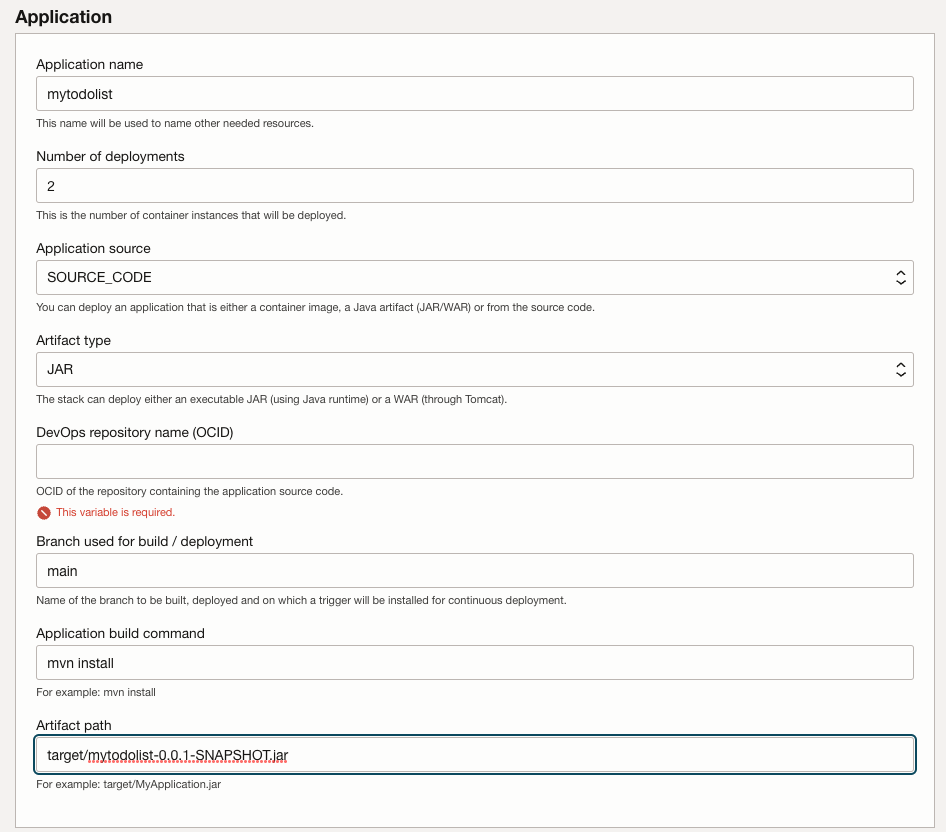
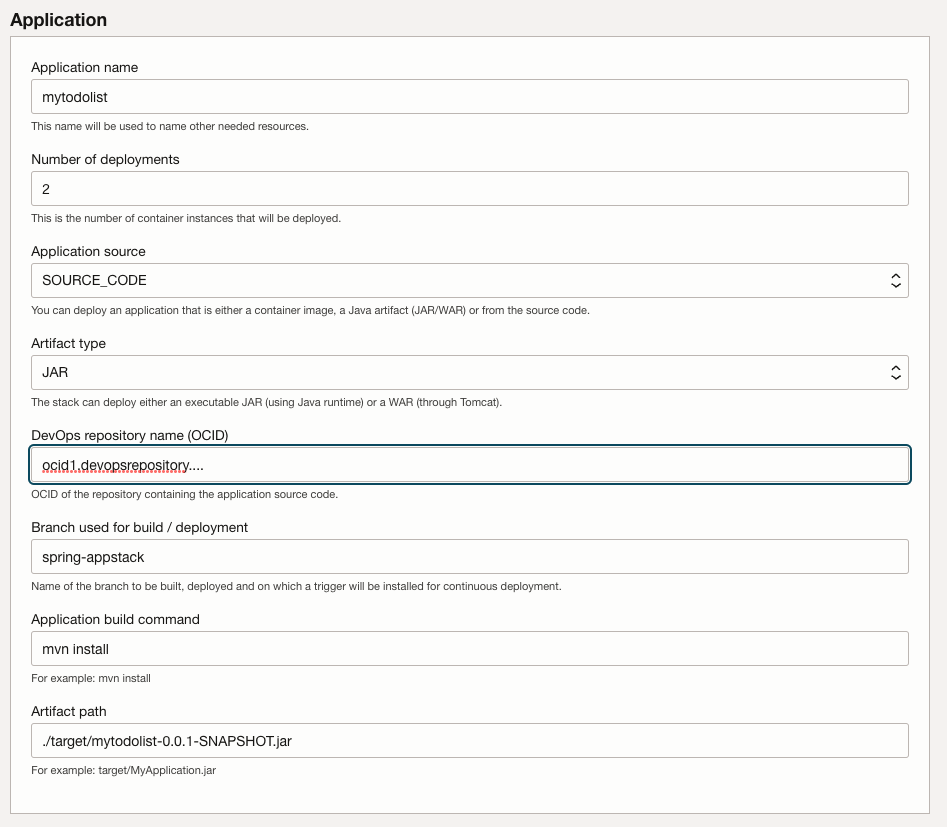
more documentation information

Changed region(s): [[0.0, 0.0, 1.0, 0.9674]]

diff --git a/tutorials/mytodolist/tutorial.md b/tutorials/mytodolist/tutorial.md
@@ -84,14 +84,21 @@ Your repo should now be created. Note its OCID as it will be used later.
 
 ## Configure the stack
 
-Go to the ![App Stack Product page](https://github.com/oracle-quickstart/appstack) and click on the "Deploy" button:
+Go to the [App Stack Product page](https://github.com/oracle-quickstart/appstack) and click on the "Deploy" button:
 
 ![](./screenshots/16_stackbutton.png)
 ![](./screenshots/17_createstack.png)
 ![](./screenshots/18_generalconfig.png)
+For the "DevOps repo", be sure to entre the right OCID. It should start with *ocid1.devopsrepository.* and the branch we're using is **spring-appstack**. The artifact **./target/mytodolist-0.0.1-SNAPSHOT.jar**.
 ![](./screenshots/19_appconfig.png)
 ![](./screenshots/20_apm.png)
 ![](./screenshots/21_db.png)
 ![](./screenshots/22_vault.png)
+We're not creating any DNS record in this tutorial. If you have a domain name and you're using OCI to manage your DNS entries then you can choose to make the stack create a new record for the application by checking the checkbox below.
 ![](./screenshots/23_url.png)
+
+For the network we can keep the default values:
 ![](./screenshots/24_network.png)
+
+You can then apply the stack:
+![](./screenshots/25_applystack.png)

diff --git a/troubleshooting/troubleshooting.md b/troubleshooting/troubleshooting.md
@@ -1,0 +1,23 @@
+# Troubleshooting
+
+This document lists the common errors seen when using the stack.
+
+## The job failed due to an error in the Terraform configuration. To troubleshoot this issue, view the job log.
+
+![](./screenshots/1_statefailed.png)
+
+If this error shows up at the end of the stack execution
+
+```
+Error: During creation, Terraform expected the resource to reach state(s): SUCCEEDED, but the service reported unexpected state: FAILED.
+  with oci_devops_build_run.create_docker_image[0],
+  on devops.tf line 219, in resource "oci_devops_build_run" "create_docker_image" 
+ 219: resource "oci_devops_build_run" "create_docker_image" {
+```
+
+![](./screenshots/2_logerror.png)
+
+This indicates that the build pipeline failed. Go to the build pipeline log to see the error. In this case the git project branch was not found:
+
+![](./screenshots/3_buildpipelinelog.png)
+
